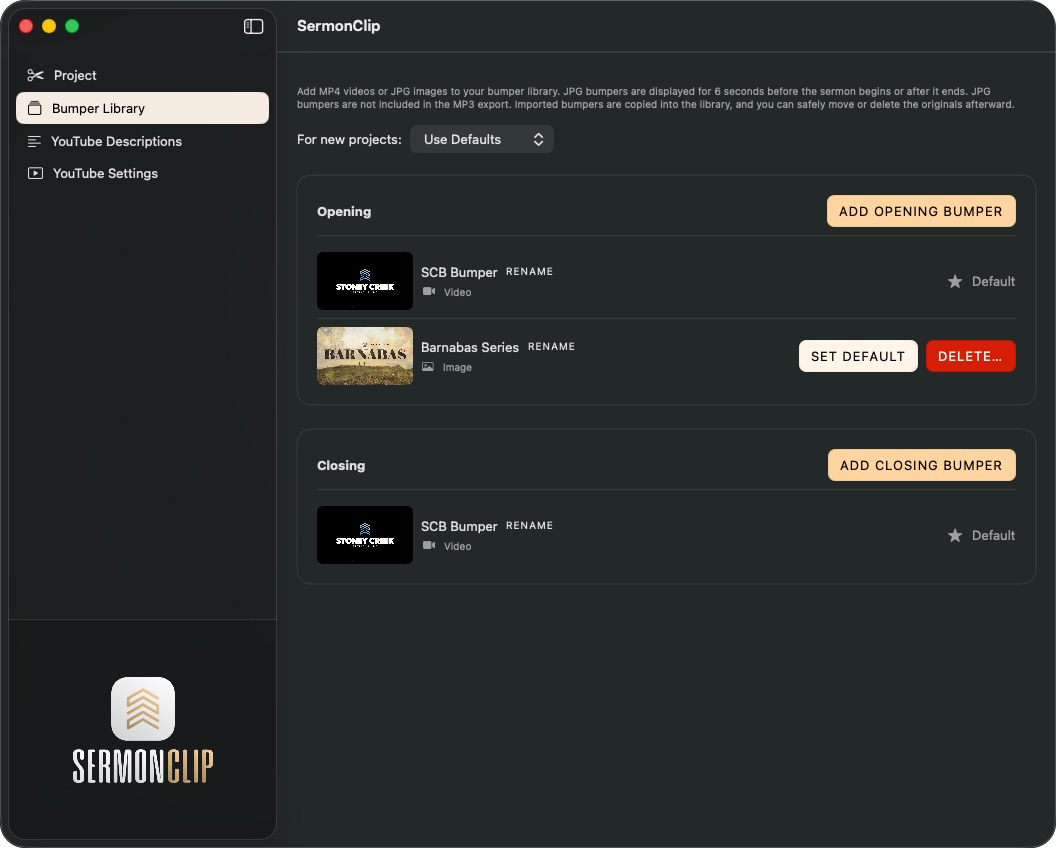
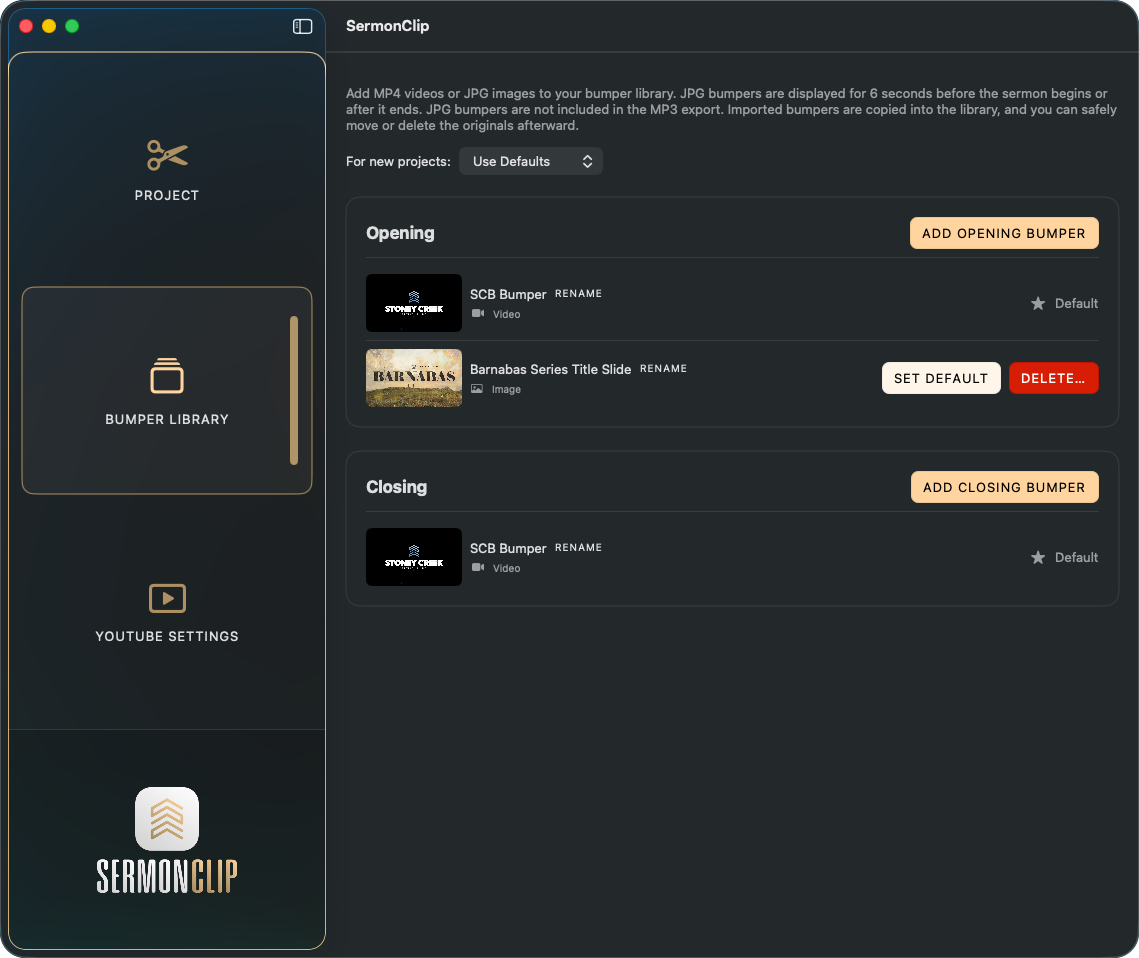
Refresh website app screenshots

diff --git a/site.css b/site.css
@@ -60,14 +60,16 @@ h3 { margin-bottom:9px; font-size:20px; letter-spacing:-.02em; }
 .process-step h3 { margin:2px 0 9px; }
 .process-step p, .split-copy p, .download-panel p { color:var(--muted); }
 .screen-section { padding-top:84px; }
-.screen-grid { display:grid; grid-template-columns:repeat(2,minmax(0,1fr)); gap:18px; }
-.screen-card { overflow:hidden; padding:12px; border:1px solid var(--line); border-radius:16px; background:var(--surface); transition:transform .25s ease, border-color .25s ease, box-shadow .25s ease; }
+.screen-grid { display:grid; gap:24px; }
+.screen-card { display:grid; grid-template-columns:minmax(0,1.3fr) minmax(260px,.7fr); align-items:center; gap:28px; overflow:hidden; padding:18px; border:1px solid var(--line); border-radius:16px; background:var(--surface); transition:transform .25s ease, border-color .25s ease, box-shadow .25s ease; }
+.screen-card:nth-child(even) .screen-image-link { order:2; }
+.screen-card:nth-child(even) .screen-caption { order:1; }
 .screen-card:hover { transform:translateY(-4px); border-color:var(--primary-border); box-shadow:0 14px 34px rgba(59,47,29,.08); }
 .screen-image-link { display:block; border-radius:10px; outline-offset:4px; }
 .screen-image-link:focus-visible { outline:2px solid var(--accent); }
 .screen-card img { display:block; width:100%; height:auto; border:1px solid var(--line); border-radius:10px; transition:filter .2s ease, transform .2s ease; }
 .screen-image-link:hover img { filter:brightness(.94); transform:scale(1.01); }
-.screen-caption { padding:19px 10px 9px; }
+.screen-caption { padding:19px 10px; }
 .screen-caption h3 { margin-bottom:7px; }
 .screen-caption p { margin-bottom:0; color:var(--muted); }
 .lightbox { width:min(1000px,calc(100% - 40px)); max-width:none; padding:0; border:0; background:transparent; }
@@ -92,5 +94,5 @@ h3 { margin-bottom:9px; font-size:20px; letter-spacing:-.02em; }
 @keyframes fade-up { from { opacity:0; transform:translateY(12px); } to { opacity:1; transform:translateY(0); } }
 @keyframes progress-shimmer { 0%,100% { background-position:100% 0; } 50% { background-position:0 0; } }
 @media (prefers-reduced-motion: reduce) { *, *::before, *::after { animation-duration:.01ms !important; animation-iteration-count:1 !important; scroll-behavior:auto !important; transition-duration:.01ms !important; } }
-@media (max-width:800px) { .hero { grid-template-columns:1fr; gap:42px; padding:64px 0 76px; }.screen-grid,.split-section { grid-template-columns:1fr; }.section-heading { display:block; }.section-heading h2 { margin-top:10px; text-align:left; }.process-list::before { left:18px; }.process-step,.process-step:nth-child(even) { width:100%; margin-left:0; }.split-section { gap:18px; }.download-panel { display:block; }.download-panel .button { margin-top:20px; } }
+@media (max-width:800px) { .hero { grid-template-columns:1fr; gap:42px; padding:64px 0 76px; }.screen-grid,.split-section { grid-template-columns:1fr; }.screen-card { grid-template-columns:1fr; gap:8px; }.screen-card:nth-child(even) .screen-image-link,.screen-card:nth-child(even) .screen-caption { order:initial; }.section-heading { display:block; }.section-heading h2 { margin-top:10px; text-align:left; }.process-list::before { left:18px; }.process-step,.process-step:nth-child(even) { width:100%; margin-left:0; }.split-section { gap:18px; }.download-panel { display:block; }.download-panel .button { margin-top:20px; } }
 @media (max-width:560px) { .site-header, main, .site-footer { width:min(100% - 32px, 1120px); }.site-header { align-items:flex-start; gap:18px; }.brand { width:137px; } nav { flex-wrap:wrap; justify-content:flex-end; gap:10px 14px; font-size:12px; }.hero { padding-top:48px; }.lede { font-size:17px; }.feature-card { min-height:0; }.feature-number { margin-bottom:28px; }.site-footer { display:block; }.footer-links { margin-top:13px; flex-wrap:wrap; } }

diff --git a/index.html b/index.html
@@ -61,10 +61,9 @@
     <section class="section screen-section" aria-labelledby="screens-title">
       <div class="section-heading"><p class="eyebrow">Screens from the app</p><h2 id="screens-title">The main screens.</h2></div>
       <div class="screen-grid">
-        <article class="screen-card reveal"><a class="screen-image-link" href="site-assets/screens/project.png" data-lightbox="Project Panel"><img src="site-assets/screens/project.png" alt="SermonClip Project Panel showing bumpers, source video, and sermon trimming" loading="lazy"></a><div class="screen-caption"><h3>Project Panel</h3><p>Choose bumpers, select the service recording, and set the sermon boundaries.</p></div></article>
-        <article class="screen-card reveal"><a class="screen-image-link" href="site-assets/screens/bumpers.png" data-lightbox="Bumper Library"><img src="site-assets/screens/bumpers.png" alt="SermonClip Bumper Library screen with opening and closing bumpers" loading="lazy"></a><div class="screen-caption"><h3>Bumper Library</h3><p>Store opening and closing video or JPG bumpers and choose defaults.</p></div></article>
-        <article class="screen-card reveal"><a class="screen-image-link" href="site-assets/screens/descriptions.png" data-lightbox="YouTube Descriptions"><img src="site-assets/screens/descriptions.png" alt="SermonClip YouTube Descriptions screen with saved presets" loading="lazy"></a><div class="screen-caption"><h3>YouTube Descriptions</h3><p>Save description presets for reuse across projects.</p></div></article>
-        <article class="screen-card reveal"><a class="screen-image-link" href="site-assets/screens/youtube.png" data-lightbox="YouTube Settings"><img src="site-assets/screens/youtube.png" alt="SermonClip YouTube Settings screen with channel connection and upload settings" loading="lazy"></a><div class="screen-caption"><h3>YouTube Settings</h3><p>Connect a YouTube channel and manage the settings used when uploading exports.</p></div></article>
+        <article class="screen-card reveal"><a class="screen-image-link" href="site-assets/screens/project.png" data-lightbox="Project Panel"><img src="site-assets/screens/project.png" alt="SermonClip Project Panel showing sermon trimming controls" loading="lazy"></a><div class="screen-caption"><h3>Project Panel</h3><p>Choose bumpers, select the full service recording, and set the sermon boundaries.</p></div></article>
+        <article class="screen-card reveal"><a class="screen-image-link" href="site-assets/screens/bumpers.png" data-lightbox="Bumper Library"><img src="site-assets/screens/bumpers.png" alt="SermonClip Bumper Library screen with opening and closing bumpers" loading="lazy"></a><div class="screen-caption"><h3>Bumper Library</h3><p>Store opening and closing video or JPG bumpers and choose the defaults used for new projects.</p></div></article>
+        <article class="screen-card reveal"><a class="screen-image-link" href="site-assets/screens/youtube.png" data-lightbox="YouTube Settings"><img src="site-assets/screens/youtube.png" alt="SermonClip YouTube Settings screen with account connection and description presets" loading="lazy"></a><div class="screen-caption"><h3>YouTube Settings</h3><p>Connect a YouTube channel and manage reusable description presets for uploads.</p></div></article>
       </div>
     </section>
 
